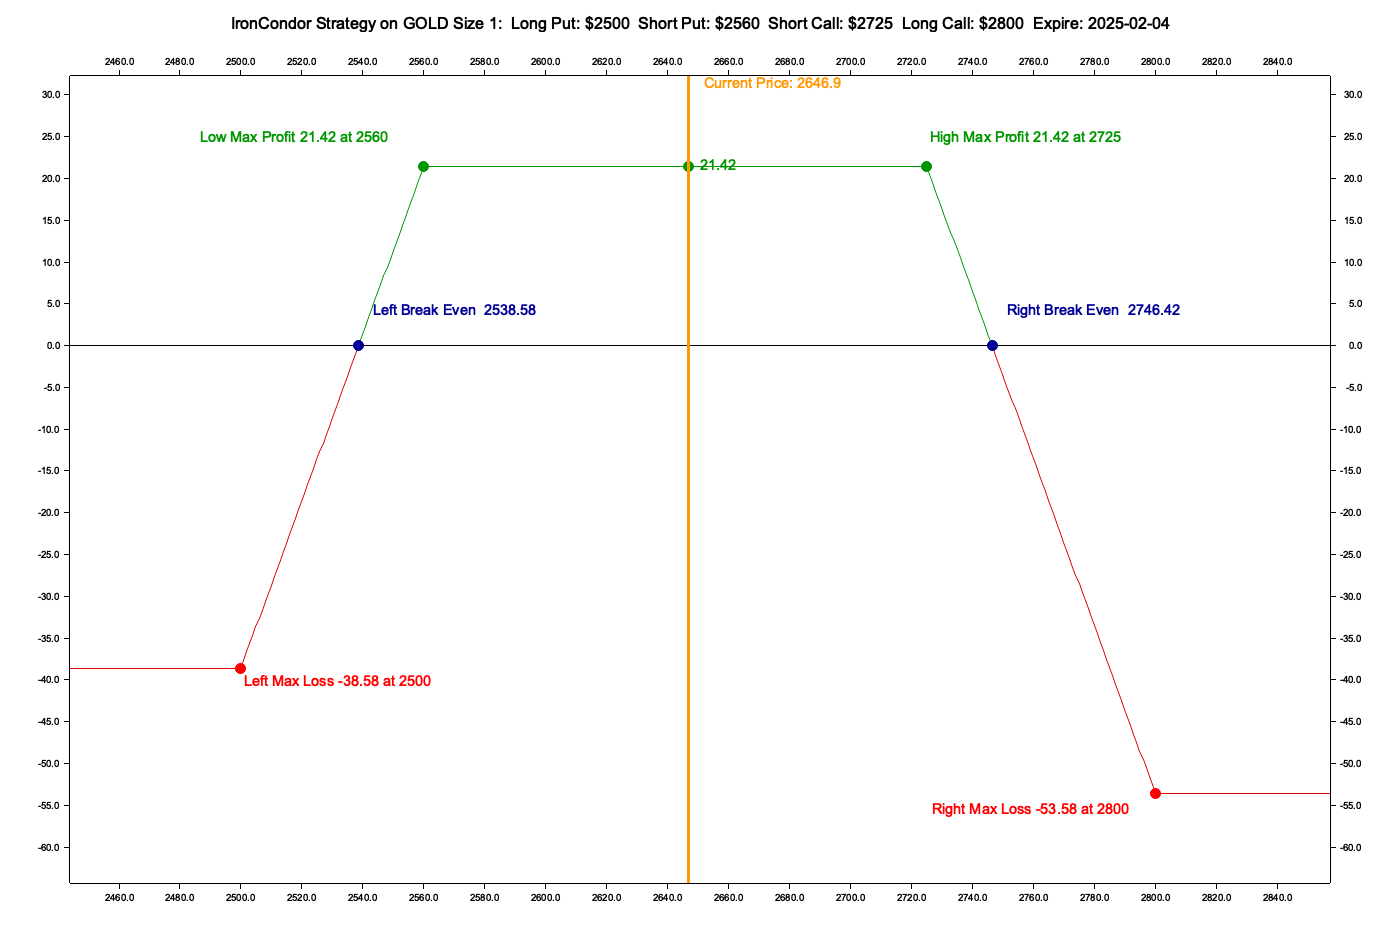
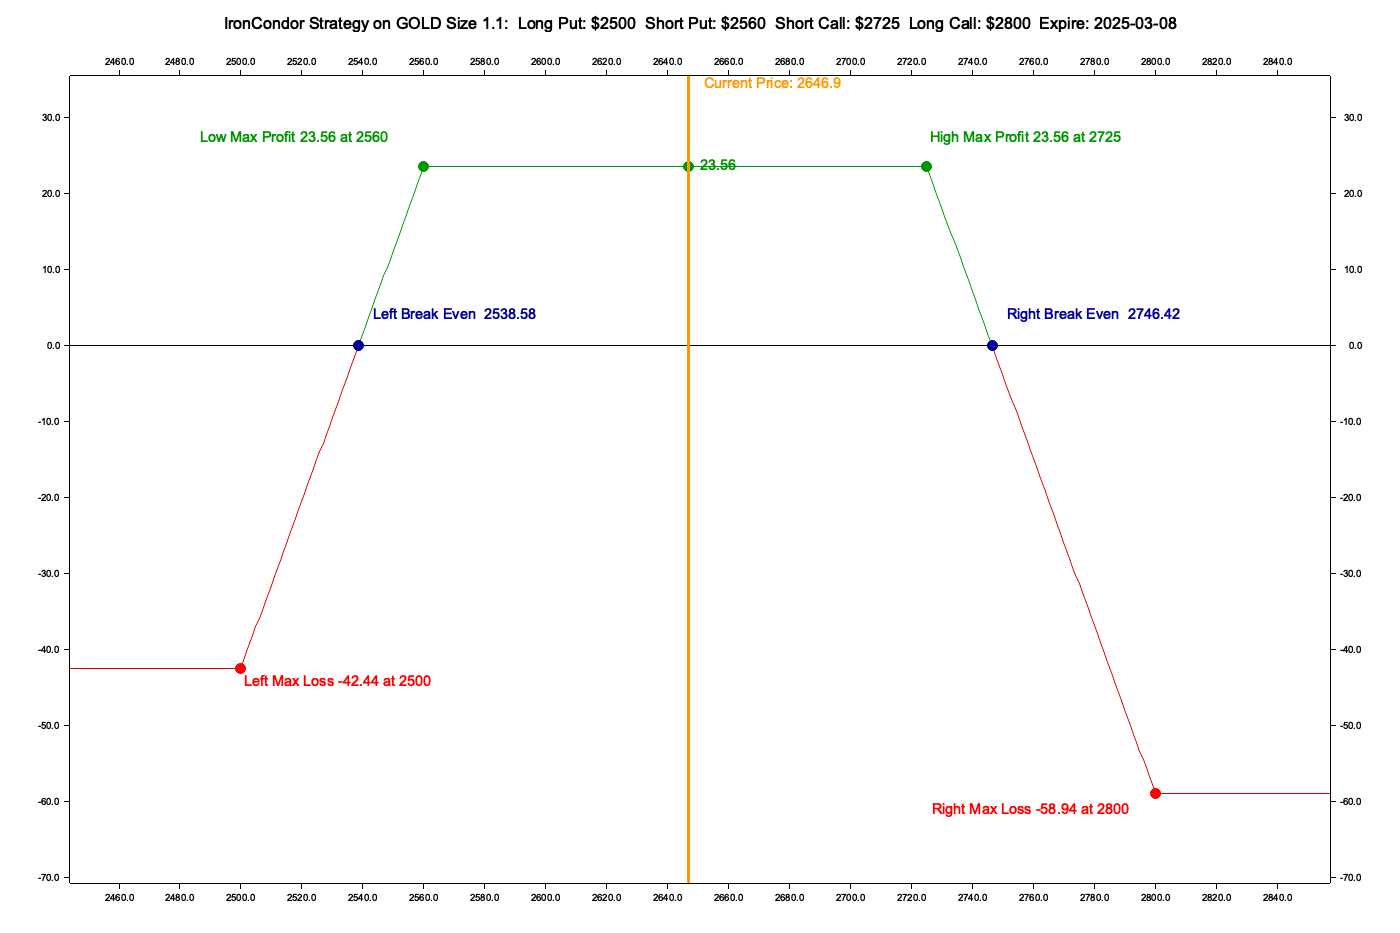
Refactor break-even point calculation for iron condor.
Moved break-even point logic to a new `update_break_even_points` method for improved code organization and reusability. Updated examples to reflect changes, including adjustments to option quantity. Updated profit/loss chart for consistency with the new implementation.

diff --git a/src/strategies/iron_condor.rs b/src/strategies/iron_condor.rs
@@ -193,17 +193,9 @@ impl IronCondor {
             .add_position(&long_put.clone())
             .expect("Invalid long put");
 
-        // Calculate break-even points
-        let net_credit = (strategy.net_premium_received().unwrap() / quantity).round_to(2);
-
         strategy
-            .break_even_points
-            .push(short_call_strike + net_credit);
-        strategy
-            .break_even_points
-            .push(short_put_strike - net_credit);
-
-        strategy.break_even_points.sort();
+            .update_break_even_points()
+            .expect("Unable to update break even points");
         strategy
     }
 }
@@ -211,6 +203,23 @@ impl IronCondor {
 impl BreakEvenable for IronCondor {
     fn get_break_even_points(&self) -> Result<&Vec<Positive>, StrategyError> {
         Ok(&self.break_even_points)
+    }
+
+    fn update_break_even_points(&mut self) -> Result<(), StrategyError> {
+        self.break_even_points = Vec::new();
+
+        let net_credit = self.net_premium_received()? / self.short_call.option.quantity;
+
+        self.break_even_points.push(
+            (self.short_call.option.strike_price + net_credit).round_to(2)
+        );
+
+        self.break_even_points.push(
+            (self.short_put.option.strike_price - net_credit).round_to(2)
+        );
+
+        self.break_even_points.sort();
+        Ok(())
     }
 }
 

diff --git a/src/strategies/straddle.rs b/src/strategies/straddle.rs
@@ -32,7 +32,7 @@ use crate::strategies::probabilities::utils::VolatilityAdjustment;
 use crate::strategies::utils::{FindOptimalSide, OptimizationCriteria};
 use crate::visualization::model::{ChartPoint, ChartVerticalLine, LabelOffsetType};
 use crate::visualization::utils::Graph;
-use crate::{pos, Options, Positive};
+use crate::{Options, Positive};
 use chrono::Utc;
 use num_traits::FromPrimitive;
 use plotters::prelude::full_palette::ORANGE;

diff --git a/examples/examples_strategies/src/bin/strategy_iron_condor.rs b/examples/examples_strategies/src/bin/strategy_iron_condor.rs
@@ -25,7 +25,7 @@ fn main() -> Result<(), Box<dyn Error>> {
         pos!(0.1548),   // implied_volatility
         dec!(0.05),     // risk_free_rate
         Positive::ZERO, // dividend_yield
-        pos!(1.0),      // quantity
+        pos!(1.1),      // quantity
         pos!(38.8),     // premium_short_call
         pos!(30.4),     // premium_short_put
         pos!(23.3),     // premium_long_call
